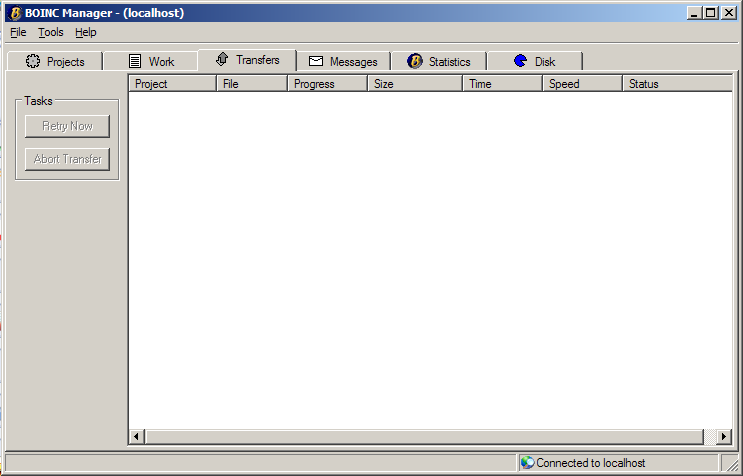
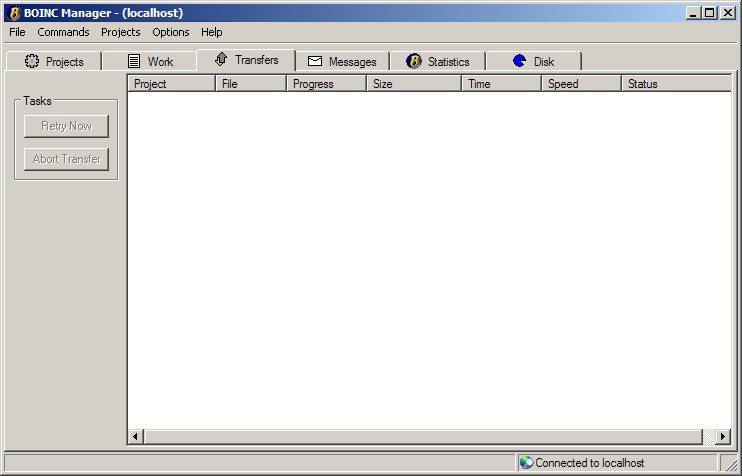
*** empty log message ***
svn path=/trunk/boinc/; revision=8844

diff --git a/manager.php b/manager.php
@@ -3,24 +3,43 @@ require_once("docutil.php");
 page_head("The BOINC manager");
 echo "
 <p>
-The <b>BOINC manager</b> program controls
-the use of your computer's disk, network, and processor resources.
-It is normally started at boot time.
-It is represented by a icon in the system tray.
+The <b>BOINC manager</b> program is available for Windows, Mac OS X
+and Linux.  It controls the use of your computer's disk, network, and 
+processor resources, and is normally started at boot time.
+<br>On Windows, the BOINC Manager is represented by an icon in the system tray.
+<br>On Mac OS X, it is represented by icons in both the menubar and the Dock.
+</p>
+<!-- ** ROM ** is there an equivalent on Linux to the system tray icon? -->
 </p>
 
 <img src=mgrsystraymenu.png>
 
 <p>
-Double-click on the icon to open the BOINC manager window.
-Right-click on the icon to:
+On Windows:
+    <ul>
+    <li>Double-click on the icon to open the BOINC manager window.
+    <li>Right-click on the icon to access its menu.
+    </ul>
+On Mac OS X:
+    <ul>
+    <li>Click on the icon in the menubar or Dock and hold the 
+    button down until the menu appears.
+    </ul>
+</p>
+<p>
+The icon menu choices are:
 <ul>
 <li> <b>Open BOINC Manager</b>: opens the current BOINC Manager.
 <li> <b>Run always</b>: do work, regardless of preferences.
 <li> <b>Run based on preferences</b>: do work
     when your <a href=prefs.php>preferences</a> allow it.
 <li> <b>Suspend</b>: stop work (computation and file transfer).
-<li> <b>Disable BOINC network access</b>:  setting this keeps BOINC
+<li> <b>Network activity always available</b>: always allow BOINC to 
+contact the project servers when it needs to.
+<li> <b>Network activity based on preferences</b>: allow BOINC to contact 
+the project servers only when your <a href=prefs.php>preferences</a> 
+allow it.
+<li> <b>Network activity suspended</b>: setting this keeps BOINC
 from attempting to contact any of the project servers.  It is useful
 for those on dial-up connections who do not want to be bothered with
 BOINC prompting to connect or disconnect for a time.
@@ -34,7 +53,7 @@ No further work will take place until you run the BOINC manager again.
 <p>
 Hovering over the BOINC icon will display a status balloon which contains
 the project it is currently working on, how far along it is, and which
-computer it is connected too.
+computer it is connected to (Windows only).
 </p>
 <h1>BOINC Manager Tabs</h1>
 <h2>Projects</h2>
@@ -56,9 +75,6 @@ computer it is connected too.
 <ul>
 <li> <b>Allow new work</b>:
     Allow the project to download additional work, if needed.
-<li> <b>Attach to new project</b>:
-    Attach to a new project with the account key and URL sent to you
-    by the project administrator.
 <li> <b>Detach</b>:
     Your computer will stop working for the project.
 <li> <b>No new work</b>:
@@ -83,10 +99,11 @@ computer it is connected too.
 
 <h2>Work</h2>
 <p>Shows the work units currently on your computer.
-    Each work unit is either</p>
+</p>
 <img src=mgrwork.png>
 
-<ul>
+<p>Each work unit is either:
+    <ul>
 <li>Aborted: 
     Result has been aborted and will be reported to the project server
     as a computational error.
@@ -106,6 +123,7 @@ computer it is connected too.
 <li>Uploading: 
     Output files are being uploaded.
 </ul>
+</p>
 
 <p>Click on a result name to enable the following additional buttons:</p>
 <ul>
@@ -188,34 +206,68 @@ computer it is connected too.
 
 <h1>BOINC Manager Menus</h1>
 
-The BOINC manager's menu items are as follows:
+The BOINC manager has the following menus:
 <ul>
 <li> <b>File</b>
     <ul>
-    <li><b>Run always</b>, <b>Run based on preferences</b>,
-        <b>Suspend</b>: see above
+    <li><b>Select Computer</b>: Allows you to control BOINC on a different 
+        computer
+<!--  ** ROM ** is this correct?  Please add more details as appropriate -->
+    </ul>
+        
+<li> <b>Commands</b>
+    <ul>
+    <li> <b>Run always</b>: do work, regardless of preferences.
+    <li> <b>Run based on preferences</b>: do work
+        when your <a href=prefs.php>preferences</a> allow it.
+    <li> <b>Suspend</b>: stop work (computation and file transfer).
+    <li> <b>Network activity always available</b>: always allow BOINC to 
+        contact the project servers when it needs to.
+    <li> <b>Network activity based on preferences</b>: allow BOINC to contact 
+        the project servers only when your <a href=prefs.php>preferences</a> 
+        allow it.
+    <li> <b>Network activity suspended</b>: setting this keeps BOINC
+        from attempting to contact any of the project servers.  It is useful
+        for those on dial-up connections who do not want to be bothered with
+        BOINC prompting to connect or disconnect for a time.
+    <li><b>Retry Communications</b>: retry any deferred communications.
     <li><b>Run Benchmarks</b>:
         run benchmark functions, which measure the speed of your processor.
         BOINC does this automatically,
         but you can repeat it whenever you want.
         The results are shown in the Messages tab.
-    <li> <b>Hide</b>: close the BOINC manager window.
-        This does not exit the BOINC manager.
-        To do this, use the Exit command on the system tray icon menu.
     </ul>
-<li> <b>Settings</b>
+    
+<li> <b>Projects</b>
     <ul>
-    <li> <b>Attach to Project</b>:
-        Enroll this computer in a project.
+    <li> <b>Attach to new project</b>:
+        enroll this computer in a project.
         You must have already created an account with the project.
-        You will be asked to enter the project's URL and your account key.
-    <li> <b>Proxy Server</b>
-        If you connect to the web through an HTTP or SOCKS proxy,
+        You will be asked to enter the project's URL and either your account key
+        or your email address and password, depending on the project.
+<!-- ** ROM ** Please add a link to a page with details on using the Wizard. -->
+    <li> <b>Account Manager</b>: attach to one or more new projects using an 
+        account manager web site.  See <a href=/acct_mgrs.php>Account managers</a>
+    </ul>
+
+<li> <b>Ooptions</b>
+    <ul>
+    <li> <b>Options</b>: opens a dialog allowing you to select your preferred 
+        language, how often you wish to be reminded of the need to connect to 
+        the project servers (for dial-up users), etc.
+        <br>If you connect to the web through an HTTP or SOCKS proxy,
         use this dialog to enter its address and port.
+        <br>Windows only: use this dialog to tell BOINC your method of connecting 
+        to the Internet.
+<!--  ** ROM ** Please add a link to a page with details on using this dialog. -->
     </ul>
 <li> <b>Help</b>
     <ul>
-    <li> <b>About</b>: show BOINC manage version number.
+    <li> <b>BOINC Manager</b>: open a web page with instructions for using the 
+        BOINC manager.  The F1 function key also does this.
+    <li> <b>BOINC Manager</b>: open the main BOINC web page.
+    <li> <b>About</b>: show BOINC manager version number (on Mac OS X, 
+        this command is under the BOINC menu.)
     </ul>
 </ul>
 
@@ -223,11 +275,16 @@ The BOINC manager's menu items are as follows:
 Menu names and other text in the BOINC manager can be displayed in
 <a href=language.php>languages other than English</a>.
 <p>
-On Windows, the <b>BOINC screensaver</b>
-can be selected using the Display Properties dialog.
+To select the <b>BOINC screensaver</b>:
+    <ul>
+    <li> <b>Windows</b>: use the Display Properties dialog.
+    <li> <b>Mac OS X</b>: select System Preferences under the Apple menu and 
+        click on \"Screen Saver\".
+    </ul>
 The BOINC screensaver draws graphics from a running application,
 if any is available.
-Otherwise it draws the BOINC logo bouncing around the screen.
+Otherwise it draws the BOINC logo bouncing around the screen (Windows) or 
+displays a scrolling message (Mac OS X).
 ";
 page_tail();
 ?>
